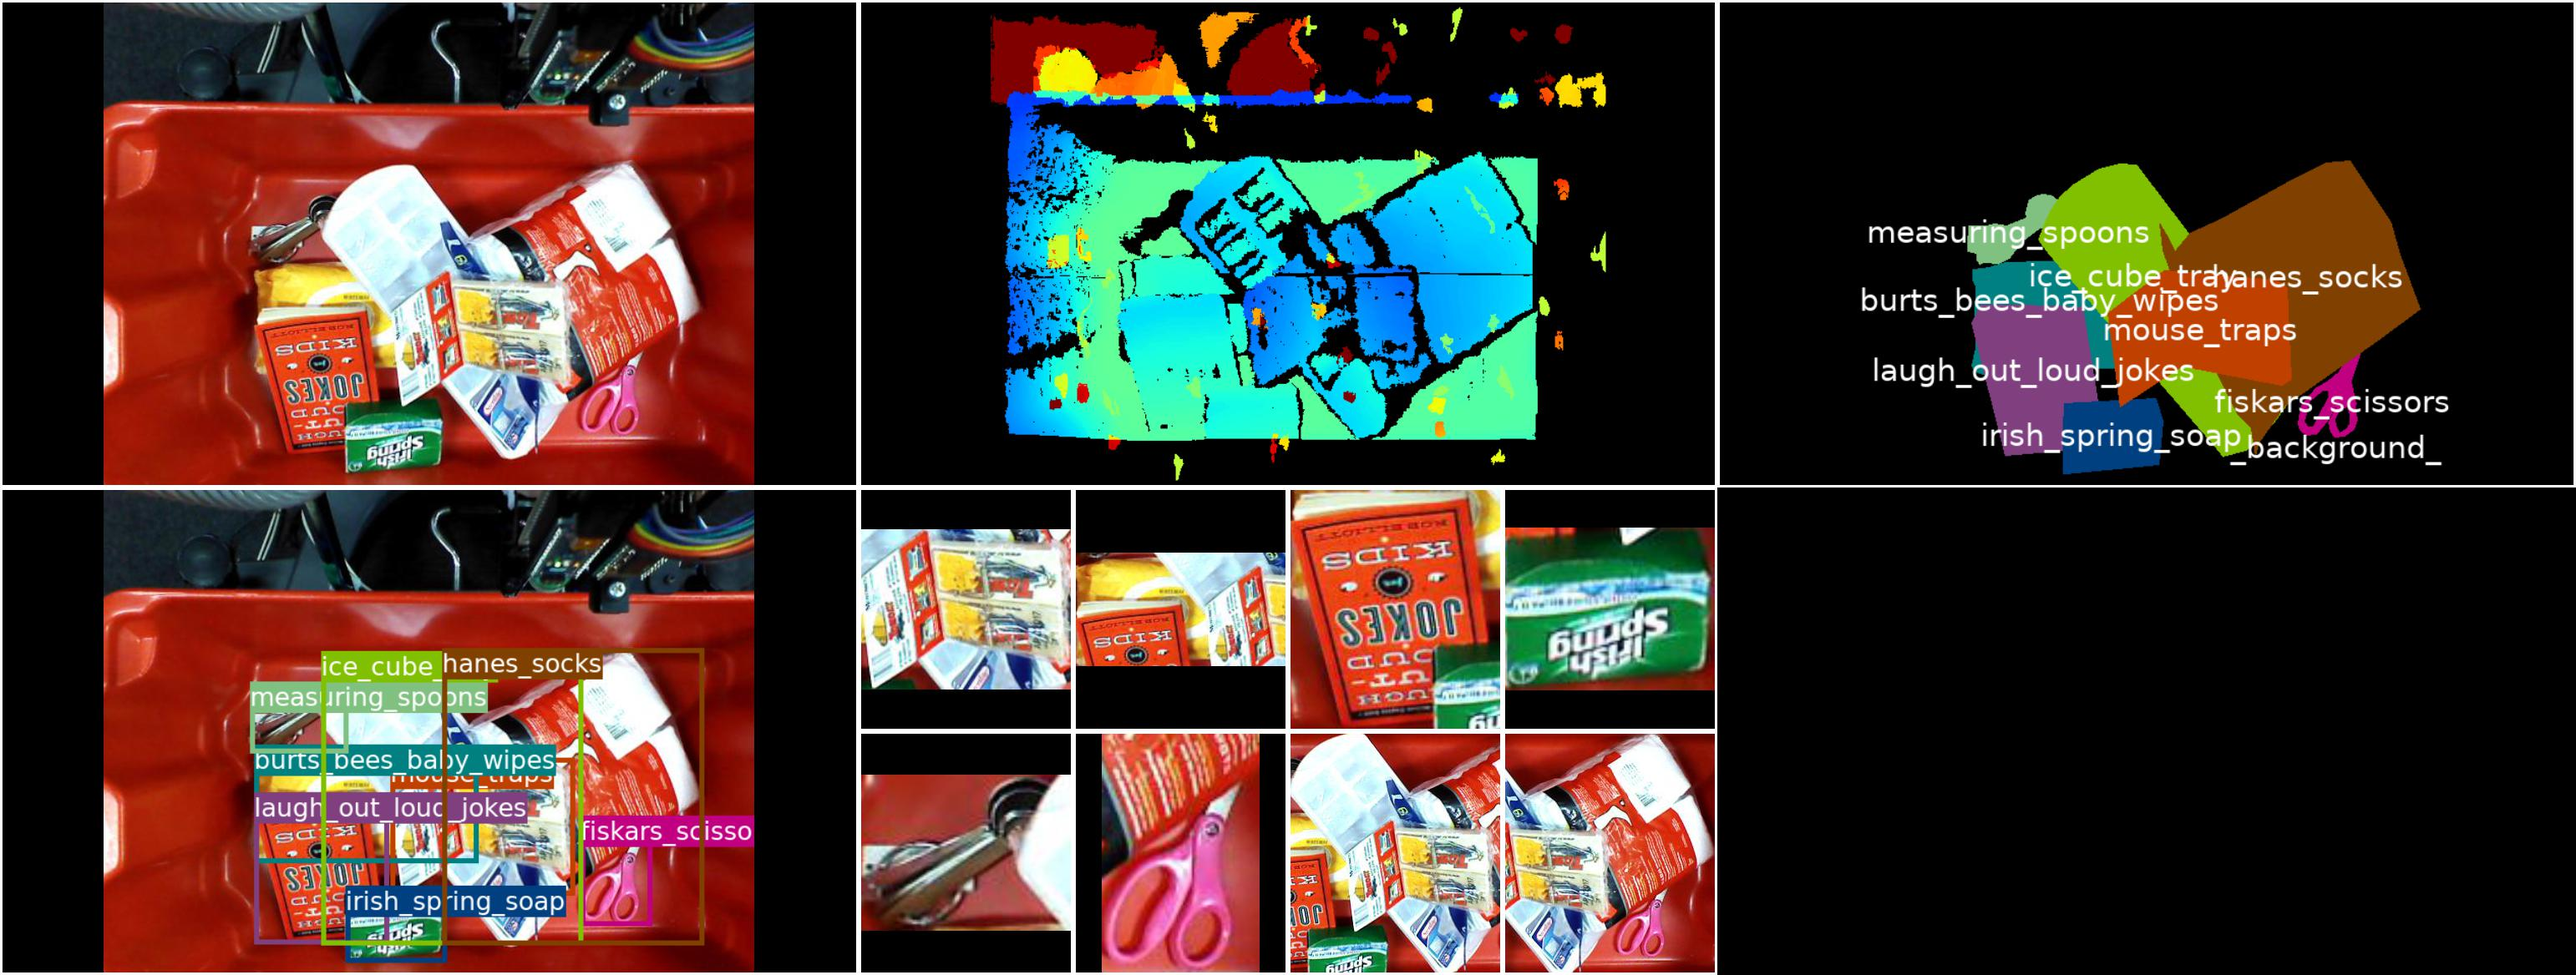
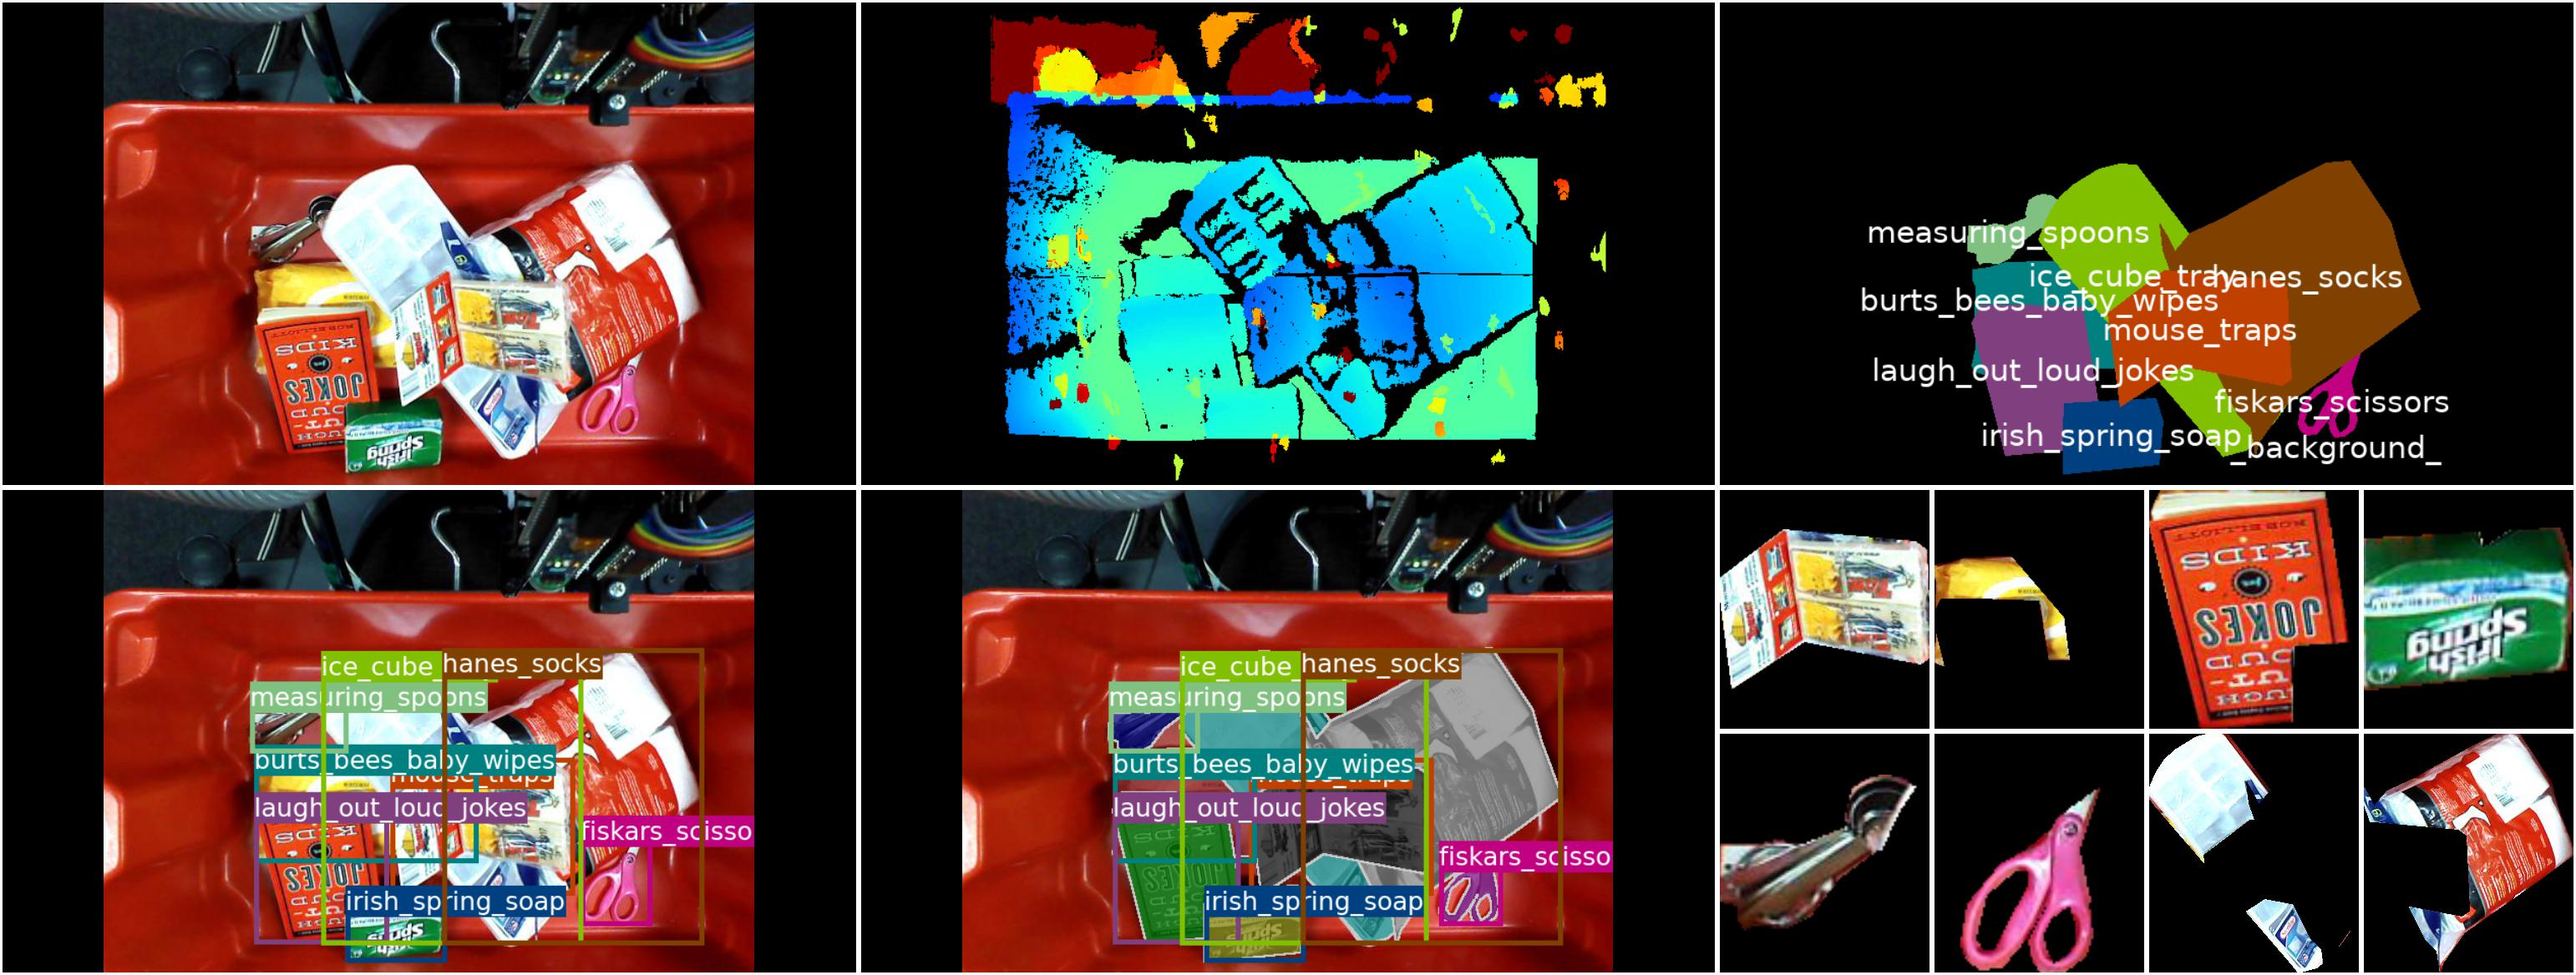
Update getting_started.py

Changed region(s): [[0.3113, 0.4932, 1.0, 1.0], [0.7471, 0.4932, 0.7782, 0.524]]

diff --git a/getting_started.py b/getting_started.py
@@ -23,15 +23,32 @@ labelviz = imgviz.label2rgb(data['class_label'], label_names=data['class_names']
 # instance bboxes
 bboxes = data['bboxes'].astype(int)
 captions = [data['class_names'][l] for l in data['labels']]
-bboxviz = imgviz.instances2rgb(data['rgb'], bboxes=bboxes, labels=data['labels'], captions=captions)
+bboxviz = imgviz.instances2rgb(
+    src=data['rgb'],
+    bboxes=bboxes,
+    labels=data['labels'],
+    captions=captions,
+)
+
+# instance masks
+masks = data['masks'] == 1
+maskviz = imgviz.instances2rgb(
+    src=data['rgb'],
+    masks=masks,
+    labels=data['labels'],
+    captions=captions,
+)
 
 # tile instance masks
-insviz = [data['rgb'][b[0]:b[2], b[1]:b[3]] for b in bboxes]
+insviz = [
+    (data['rgb'] * mask[:, :, None])[y1:y2, x1:x2]
+    for (y1, x1, y2, x2), mask in zip(bboxes, masks)
+]
 insviz = imgviz.tile(imgs=insviz, border=(255, 255, 255))
 
 # tile visualization
 tiled = imgviz.tile(
-    [data['rgb'], depthviz, labelviz, bboxviz, insviz],
+    [data['rgb'], depthviz, labelviz, bboxviz, maskviz, insviz],
     shape=(2, 3),
     border=(255, 255, 255),
 )
